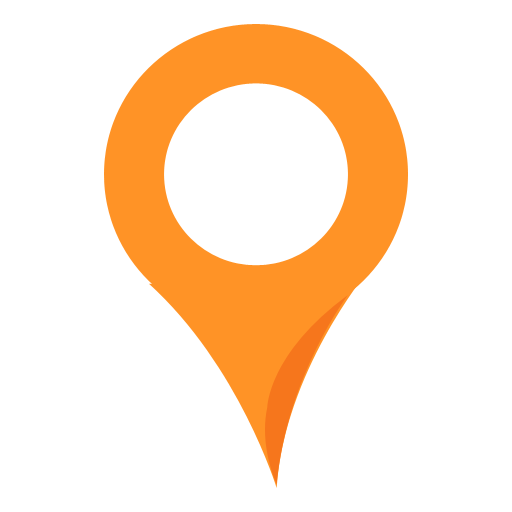
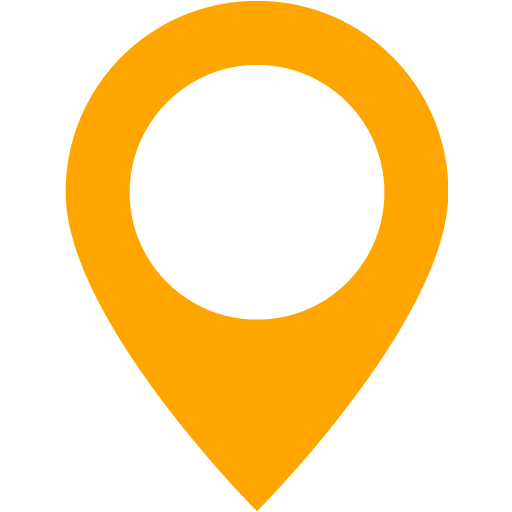
지도 아이콘 변경

diff --git a/public/js/masterMarker_GSH.js b/public/js/masterMarker_GSH.js
@@ -34,9 +34,15 @@ function markingMap(map){
     });*/
 
     var myCenter = new google.maps.LatLng(x, y);
-    var marker = new google.maps.Marker({position:myCenter,animation: google.maps.Animation.DROP});
+    var myicon = {
+      url :'img/map_icon.svg',
+      scaledSize: new google.maps.Size(50, 50),
+      origin: new google.maps.Point(0, 0)
+      // anchor: new google.maps.Point(32,65)
+    };
+    var marker = new google.maps.Marker({position:myCenter,animation: google.maps.Animation.DROP,icon:myicon});
     marker.addListener('click', toggleBounce);
-    
+
     function toggleBounce() {
       if (marker.getAnimation() !== null) {
         marker.setAnimation(null);
@@ -81,6 +87,7 @@ function changeMap(bounds) {
     var i=0;
 
     Array.prototype.forEach.call(data,function (markerElem) {
+
         var title = markerElem.title;
         //var name = markerElem.getAttribute('name');
         var region = markerElem.regionShort;
@@ -99,6 +106,7 @@ function changeMap(bounds) {
             parseFloat(markerElem.location.coordinates[1]),
             parseFloat(markerElem.location.coordinates[0])
         );
+
         // var infowincontent = document.createElement('div');
         // infowincontent.style.width = "200px";
         // infowincontent.style.height = "300px";
@@ -124,22 +132,35 @@ function changeMap(bounds) {
         '<div id="map-header">'+
         '<h4 style="font-weight:700;">'+title+'</h4><p>-&nbsp;'+region+'<br>-&nbsp;'+category+'</p></div>'+
         '<div id="map-image">'+boardpic.outerHTML+'</div></div>'
-        var customLabel = price+'/'+category;
-        // var customLabel = {
-        //     price: {
-        //         label: price+"/"+category
+
+
+        var markericon = {
+          url :'img/map_icon.svg',
+          scaledSize: new google.maps.Size(50, 50),
+          origin: new google.maps.Point(0, 0)
+          // anchor: new google.maps.Point(32,65)
+        };
+
+        // var marker = new google.maps.Marker({
+        //     map: map,
+        //     position: point,
+        //     icon :styleicon,
+        //     label : {
+        //       text : customLabel,
+        //       color:'orange'
         //     }
-        // };
-        // var icon = customLabel['price'] || {};
-        var img = "img/map_icon.png";
-        var marker = new google.maps.Marker({
+        //     // label: icon.label
+        // });
+        var marker = new MarkerWithLabel({
             map: map,
             position: point,
-            // icon:img,
-            // label: icon.label
-            label : customLabel
-            // icon : popup
+            icon :markericon,
+            labelContent : '<div>'+price+'<br>'+category+'</div>',
+            labelAnchor: new google.maps.Point(40, 50),
+            labelClass: "my-custom-class-for-label", // the CSS class for the label
+            labelInBackground: true
         });
+
         marker.addListener('click', function () {
             infoWindow.setContent(infowincontent);
             infoWindow.open(map, marker);
@@ -209,6 +230,78 @@ function changeMap(bounds) {
         i = i + 1;
     });
 };
+function definePopupClass() {
+  /**
+   * A customized popup on the map.
+   * @param {!google.maps.LatLng} position
+   * @param {!Element} content
+   * @constructor
+   * @extends {google.maps.OverlayView}
+   */
+  Popup = function(position, content) {
+    this.position = position;
+
+    content.classList.add('popup-bubble-content');
+
+    var pixelOffset = document.createElement('div');
+    pixelOffset.classList.add('popup-bubble-anchor');
+    pixelOffset.appendChild(content);
+
+    this.anchor = document.createElement('div');
+    this.anchor.classList.add('popup-tip-anchor');
+    this.anchor.appendChild(pixelOffset);
+
+    // Optionally stop clicks, etc., from bubbling up to the map.
+    // this.stopEventPropagation();
+  };
+  // NOTE: google.maps.OverlayView is only defined once the Maps API has
+  // loaded. That is why Popup is defined inside initMap().
+  Popup.prototype = Object.create(google.maps.OverlayView.prototype);
+
+  /** Called when the popup is added to the map. */
+  Popup.prototype.onAdd = function() {
+    this.getPanes().floatPane.appendChild(this.anchor);
+  };
+
+  /** Called when the popup is removed from the map. */
+  Popup.prototype.onRemove = function() {
+    if (this.anchor.parentElement) {
+      this.anchor.parentElement.removeChild(this.anchor);
+    }
+  };
+
+  /** Called when the popup needs to draw itself. */
+  Popup.prototype.draw = function() {
+    var divPosition = this.getProjection().fromLatLngToDivPixel(this.position);
+    // Hide the popup when it is far out of view.
+    var display =
+        Math.abs(divPosition.x) < 4000 && Math.abs(divPosition.y) < 4000 ?
+        'block' :
+        'none';
+
+    if (display === 'block') {
+      this.anchor.style.left = divPosition.x + 'px';
+      this.anchor.style.top = divPosition.y + 'px';
+    }
+    if (this.anchor.style.display !== display) {
+      this.anchor.style.display = display;
+    }
+  };
+
+  /** Stops clicks/drags from bubbling up to the map. */
+  // Popup.prototype.stopEventPropagation = function() {
+  //   var anchor = this.anchor;
+  //   anchor.style.cursor = 'auto';
+  //
+  //   ['click', 'dblclick', 'contextmenu', 'wheel', 'mousedown', 'touchstart',
+  //    'pointerdown']
+  //       .forEach(function(event) {
+  //         anchor.addEventListener(event, function(e) {
+  //           e.stopPropagation();
+  //         });
+  //       });
+  // };
+}
 function date_format(dateValue){
     var dd = dateValue.getDate();
     var mm = dateValue.getMonth()+1;

diff --git a/public/css/board.css b/public/css/board.css
@@ -650,6 +650,21 @@ input{
 }
 
 
+.my-custom-class-for-label {
+  width: 70px;
+  min-height: 40px;
+
+  border: 1px solid #ff6600;
+  border-radius: 5px;
+
+  background: #fff;
+  color: #ff6600;
+  text-align: center;
+  line-height: 20px;
+
+  font-weight: bold;
+  font-size: 12px;
+}
 /* student.ejs css */
 .modal-body{
   background-color:white;
